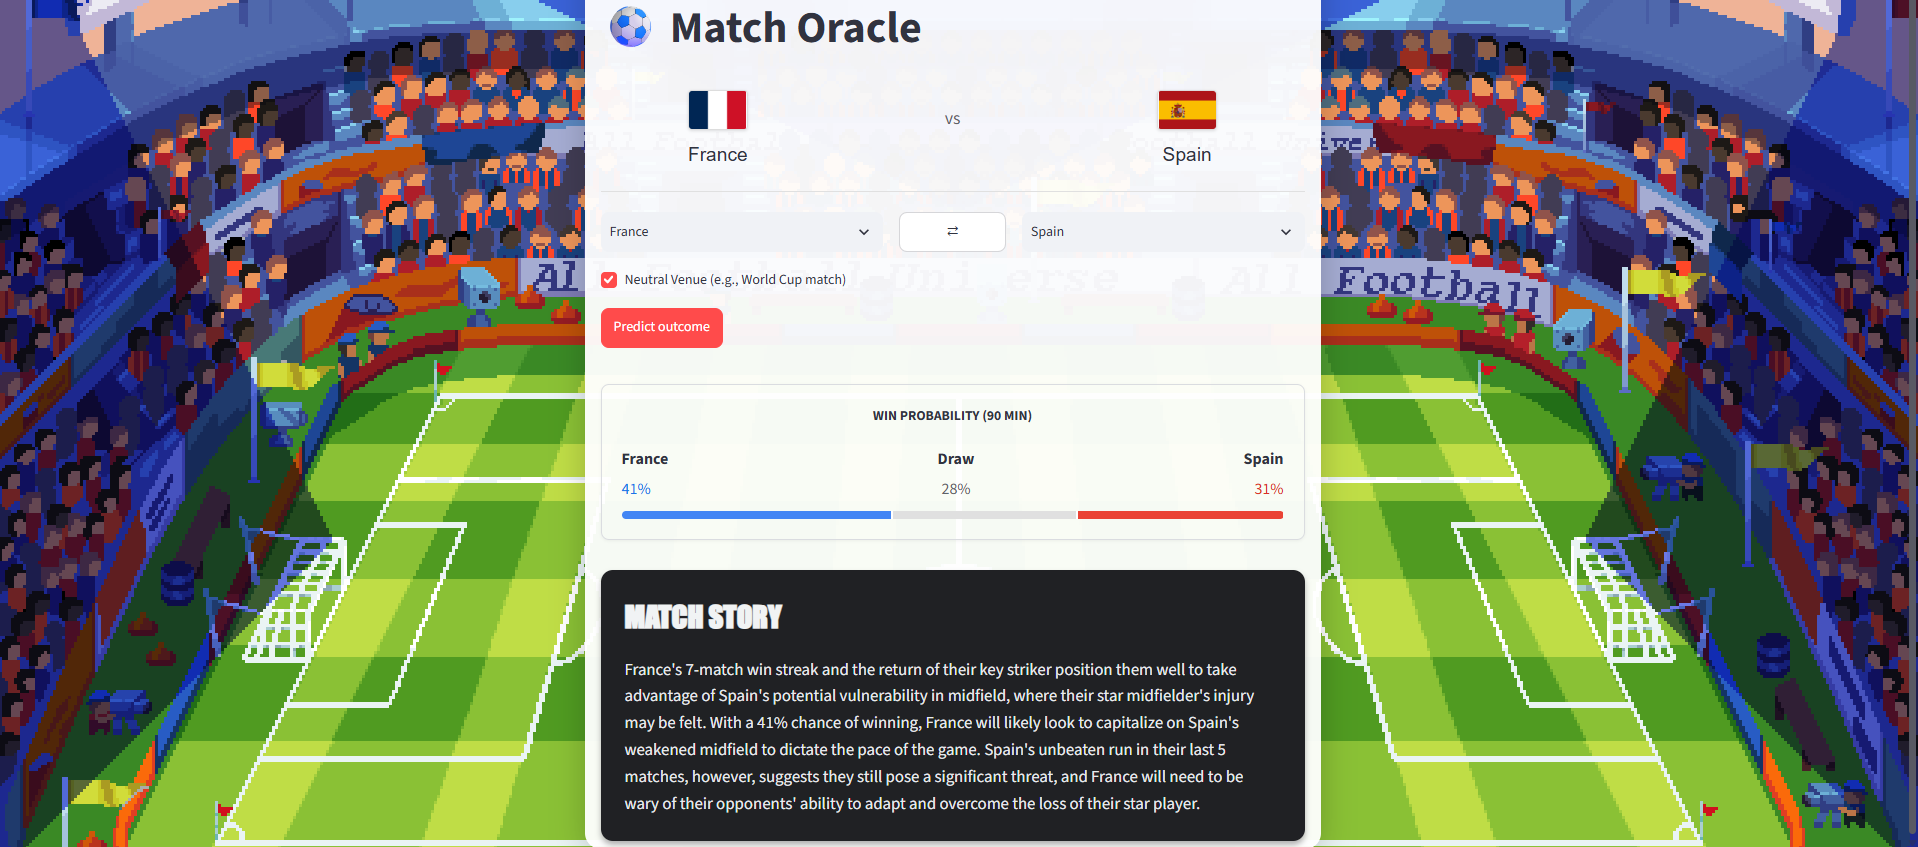
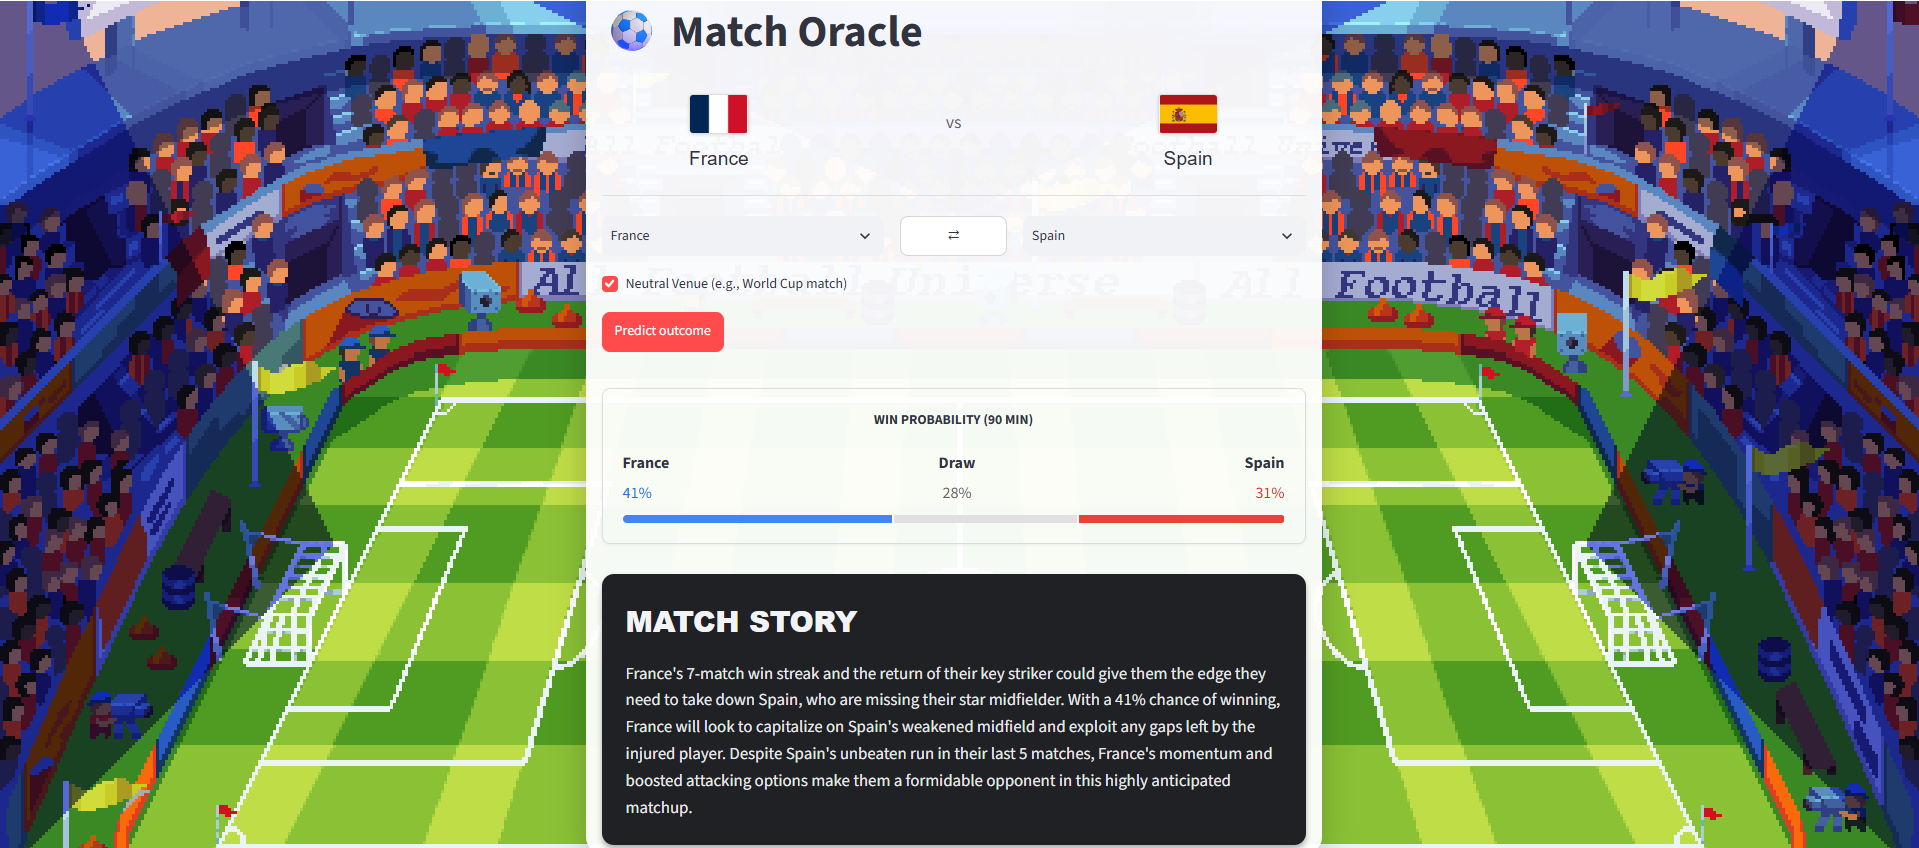
style: update app font-family and adjust README preview image height

diff --git a/app.py b/app.py
@@ -109,7 +109,7 @@ st.markdown("""
     font-weight: 900;
     font-size: 1.8rem;
     text-transform: uppercase;
-    font-family: 'Impact', sans-serif;
+    font-family: 'Helvetica Neue', sans-serif;
     margin-bottom: 15px;
     color: #f1f3f4;
 }

diff --git a/README.md b/README.md
@@ -8,7 +8,7 @@
 
 Match Oracle predicts international football match outcomes using a Logistic Regression model trained on 20+ years of FIFA ranking and match history data, then pairs that prediction with an AI-generated scouting report, built with a genuine **LangChain RAG pipeline** (FAISS vector search + prompt templates) instead of a bare API call. Pick two teams, get a win/draw/loss probability, and read a context-grounded tactical preview, all in one Streamlit page.
  
-## <div align="center"><img style="border: 2px solid #626262ad; padding: 8px 1px; border-radius: 12px;" height="500" width="1440" src = "./public/preview.png" /></div>
+## <div align="center"><img style="border: 2px solid #626262ad; padding: 8px 1px; border-radius: 12px;" height="490" width="1440" src = "./public/preview.png" /></div>
 <!-- ![previewImg](./public/preview.png) -->
 
 ---